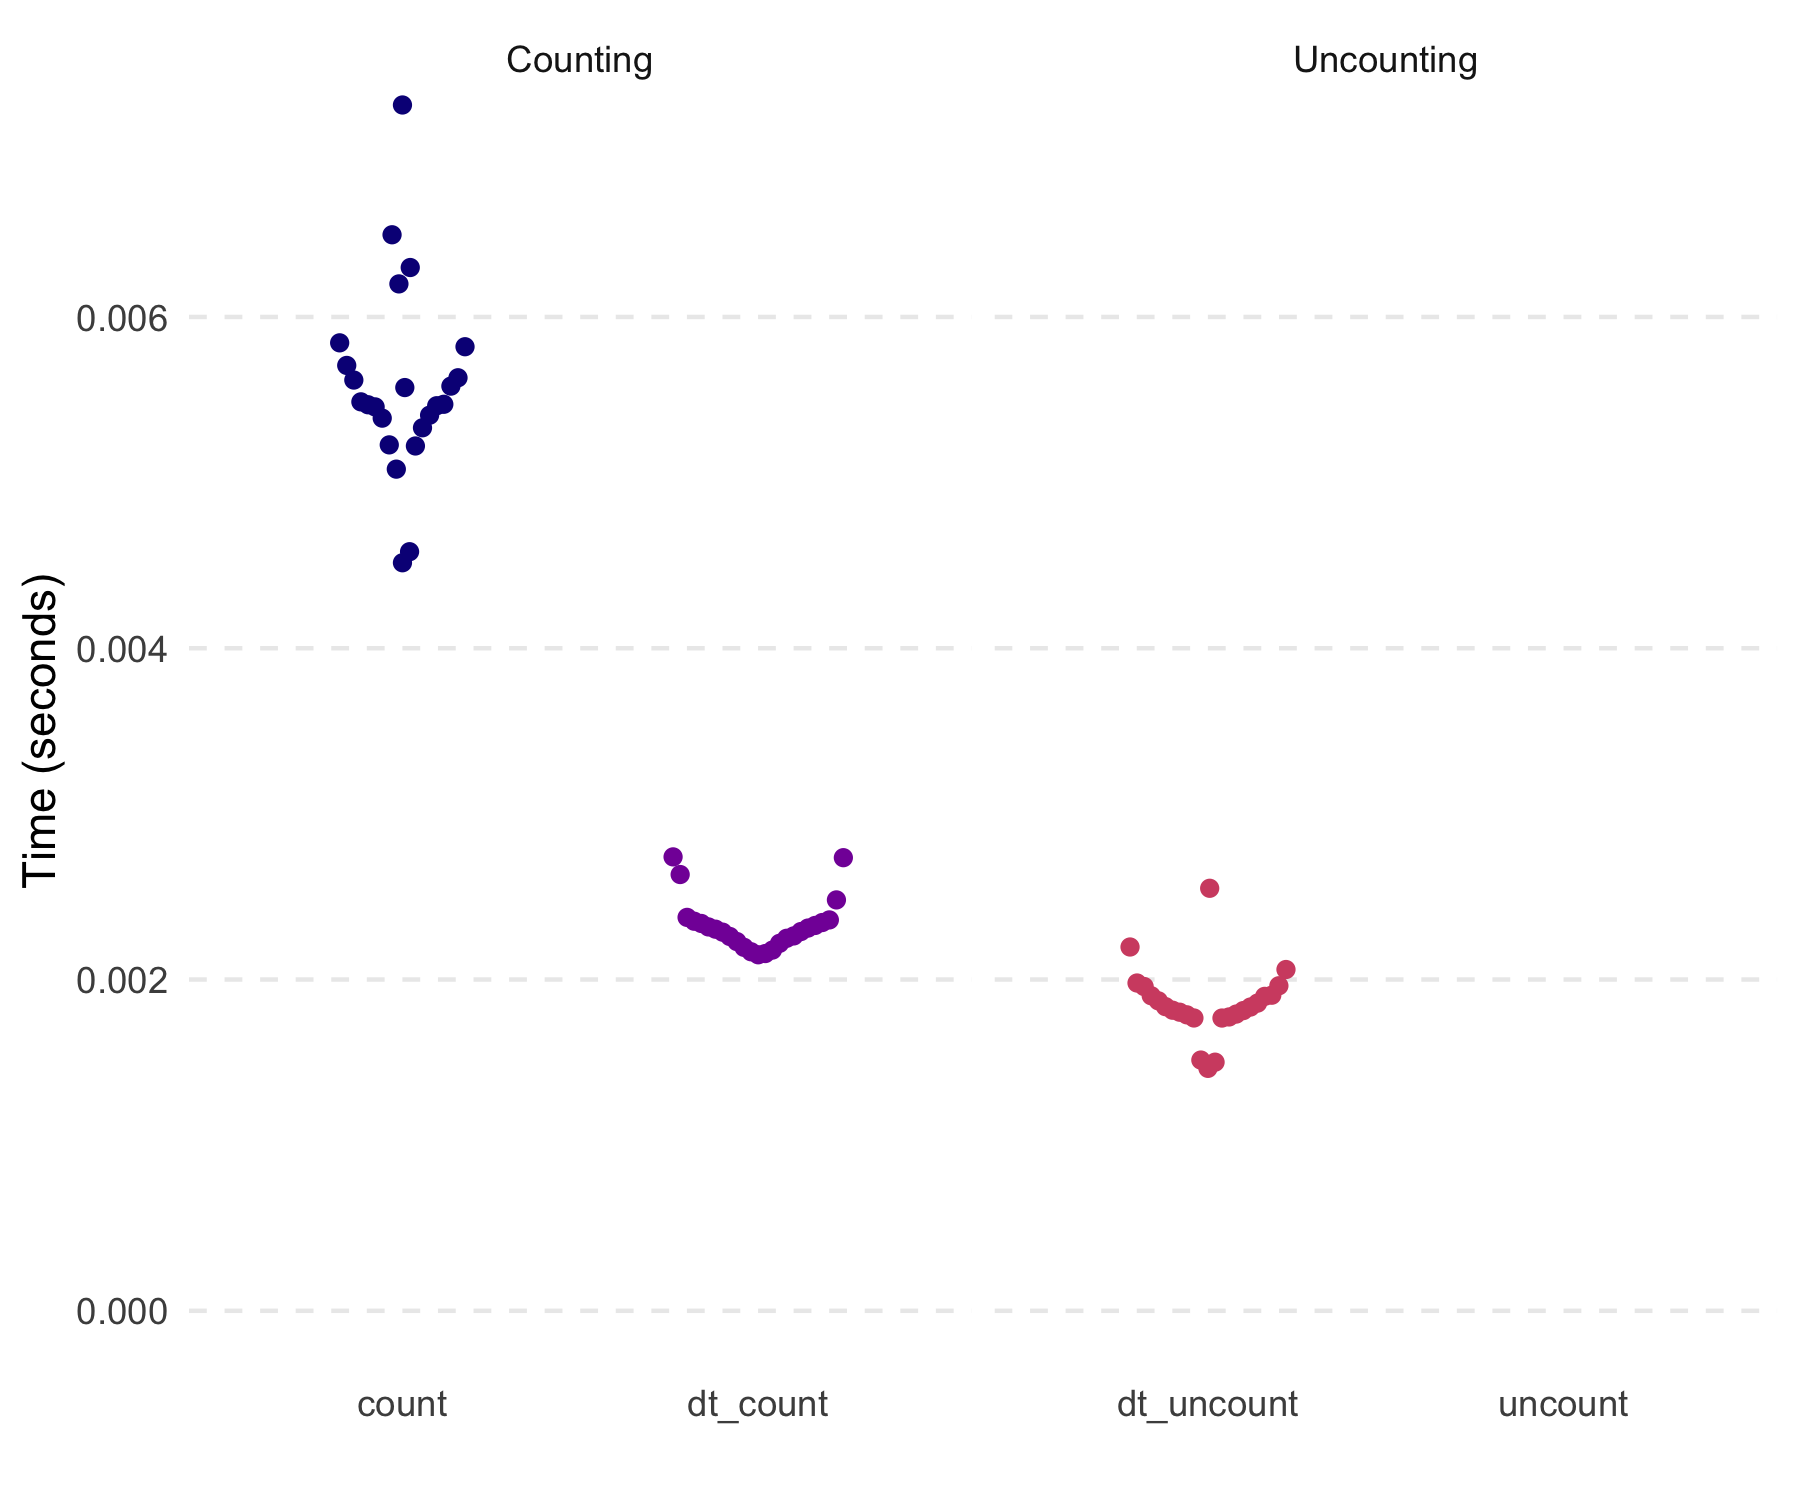
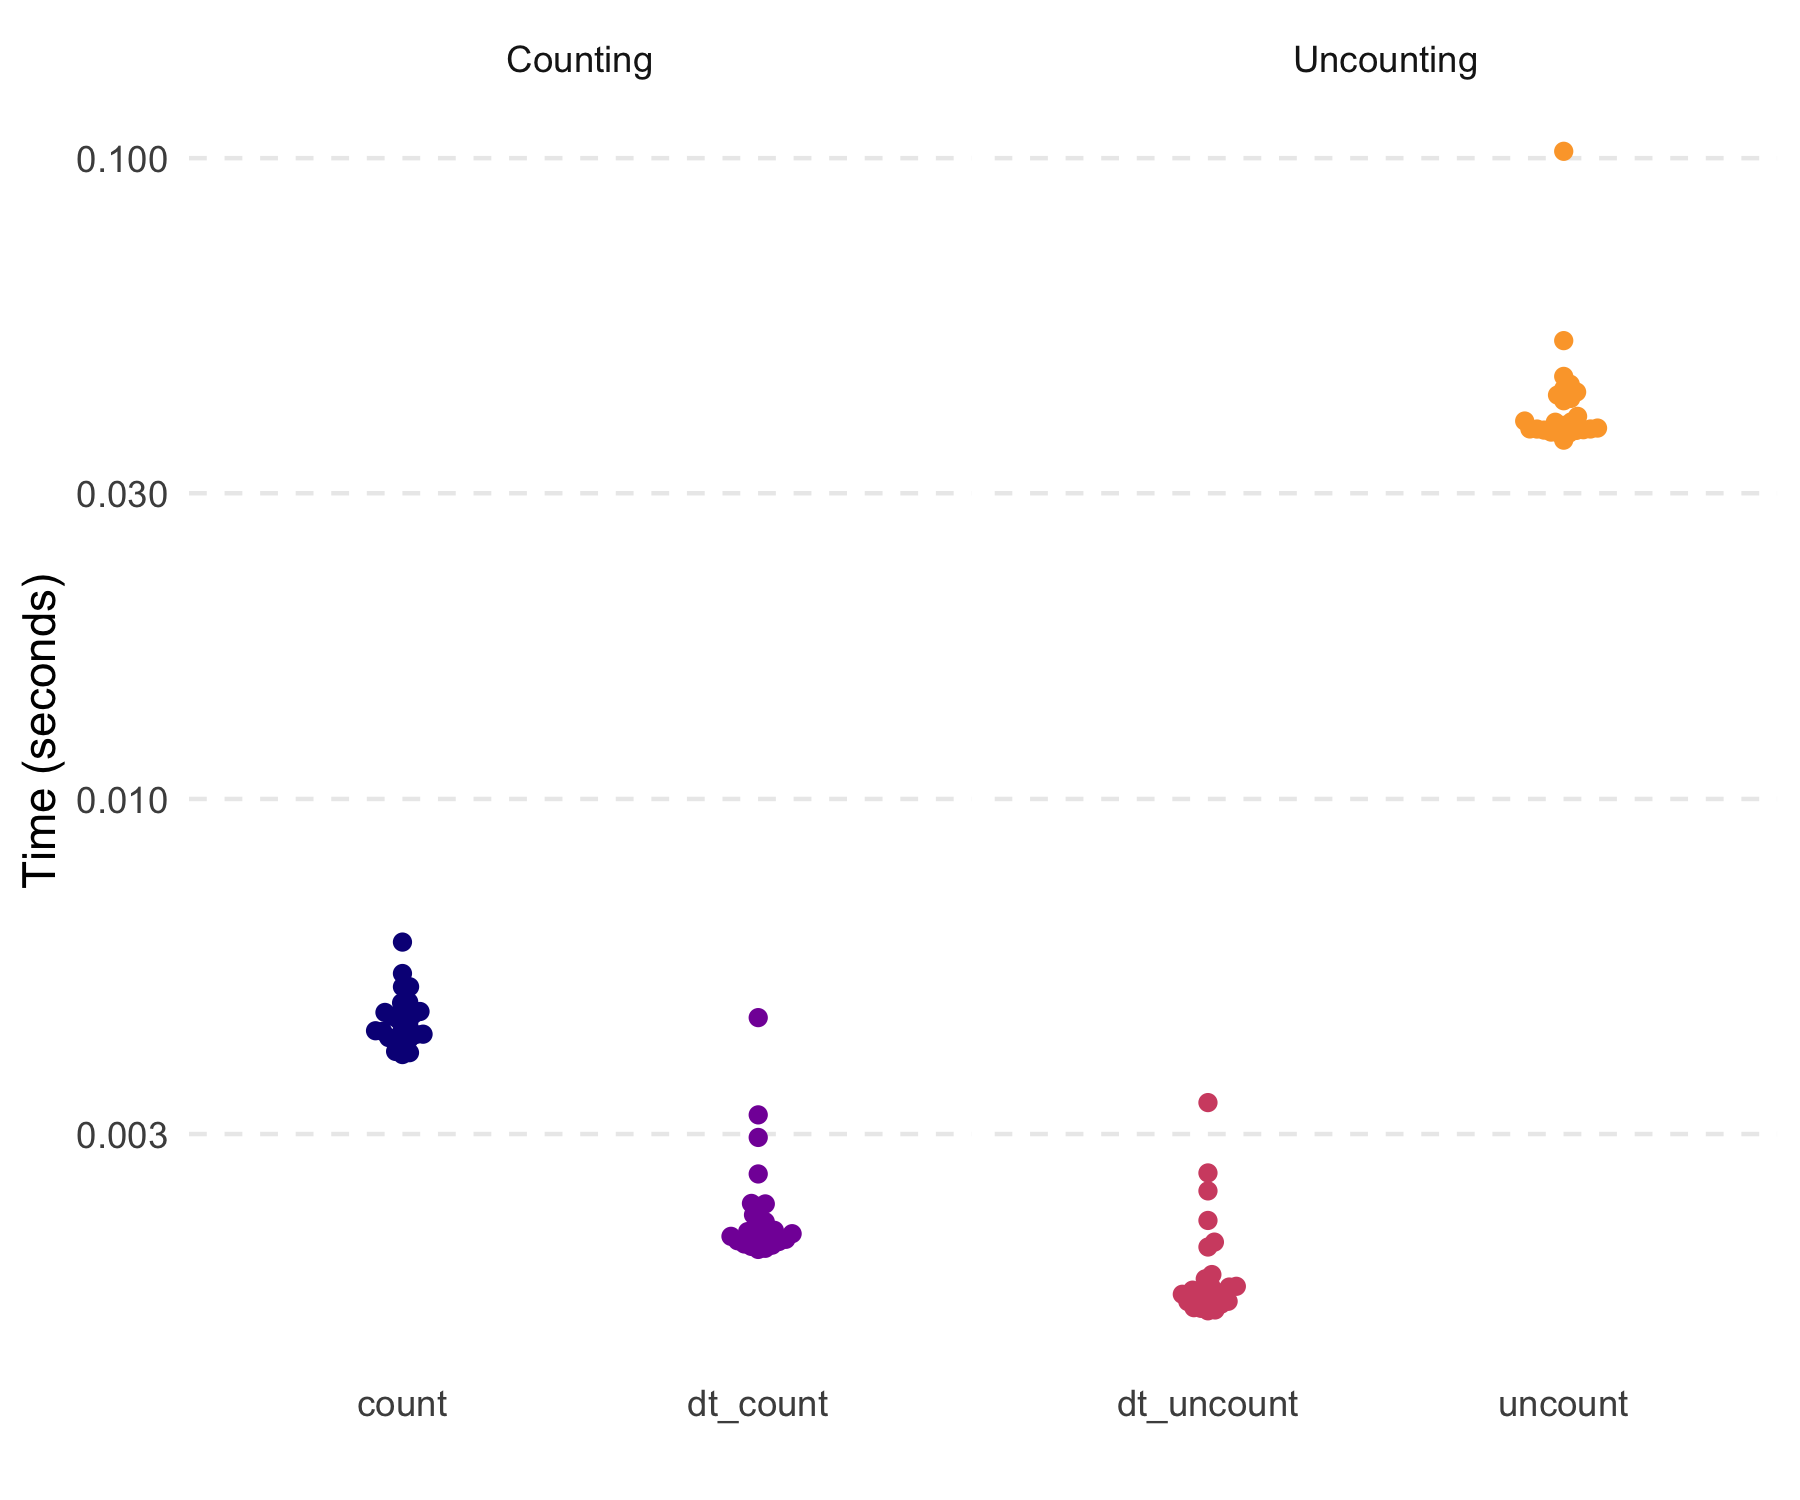
Unnest with data.table 1.13.0 (#32)
* updated dt_unnest

* updated dt_unnest

* updated readme

diff --git a/README.md b/README.md
@@ -1,7 +1,7 @@
 
 <!-- README.md is generated from README.Rmd. Please edit that file -->
 
-# `tidyfast v0.2.2` <img src="man/figures/tidyfast_hex.png" align="right" width="30%" height="30%" />
+# `tidyfast v0.2.3` <img src="man/figures/tidyfast_hex.png" align="right" width="30%" height="30%" />
 
 <!-- badges: start -->
 
@@ -216,13 +216,13 @@ highlighted below. Notably, the timings are without the `nested1` and
     #> # A tibble: 2 x 3
     #>   expression   median mem_alloc
     #>   <chr>      <bch:tm> <bch:byt>
-    #> 1 dt_nest      3.15ms    2.88MB
-    #> 2 group_nest   9.34ms     5.4MB
+    #> 1 dt_nest      3.85ms    2.88MB
+    #> 2 group_nest   8.21ms    5.39MB
     #> # A tibble: 2 x 3
     #>   expression   median mem_alloc
     #>   <chr>      <bch:tm> <bch:byt>
-    #> 1 dt_unnest    4.85ms    5.48MB
-    #> 2 unnest      17.95ms   15.31MB
+    #> 1 dt_unnest    4.77ms     5.1MB
+    #> 2 unnest       8.54ms    6.06MB
 
 ## Pivoting
 
@@ -288,17 +288,18 @@ and friends) and 2) the functions are new and likely prone to edge-case
 bugs.
 
 But let’s compare some basic speed and efficiency. Because of the
-`data.table` functions, these are extremely fast and efficient.
+`data.table` functions, these are extremely fast and
+efficient.
 
 <img src="man/figures/README-third_pivot-1.png" width="70%" /><img src="man/figures/README-third_pivot-2.png" width="70%" />
 
     #> # A tibble: 4 x 3
     #>   expression        median mem_alloc
     #>   <chr>           <bch:tm> <bch:byt>
-    #> 1 dt_pivot_longer    1.1ms  997.09KB
-    #> 2 pivot_longer      11.4ms    2.55MB
-    #> 3 dt_pivot_wider    10.9ms    1.86MB
-    #> 4 pivot_wider       13.3ms    1.95MB
+    #> 1 dt_pivot_longer   1.21ms  996.42KB
+    #> 2 pivot_longer       7.3ms    2.48MB
+    #> 3 dt_pivot_wider    8.87ms    1.86MB
+    #> 4 pivot_wider       8.08ms    2.09MB
 
 ### If Else
 
@@ -347,9 +348,9 @@ built on `data.table::fifelse()`.
     #> # A tibble: 3 x 3
     #>   expression     median mem_alloc
     #>   <chr>        <bch:tm> <bch:byt>
-    #> 1 case_when     133.7ms   148.8MB
-    #> 2 dt_case_when   35.8ms    34.3MB
-    #> 3 fifelse        34.1ms    34.3MB
+    #> 1 case_when     138.8ms   148.8MB
+    #> 2 dt_case_when   39.9ms    34.3MB
+    #> 3 fifelse        38.1ms    34.3MB
 
 ## Fill
 
@@ -457,8 +458,8 @@ marks3 <-
     #> # A tibble: 2 x 3
     #>   expression                                    median mem_alloc
     #>   <bch:expr>                                  <bch:tm> <bch:byt>
-    #> 1 tidyr::fill(dplyr::group_by(df3, id), x, y)   44.1ms    42.6MB
-    #> 2 tidyfast::dt_fill(dt3, x, y, id = list(id))   23.8ms    29.1MB
+    #> 1 tidyr::fill(dplyr::group_by(df3, id), x, y)   44.8ms    43.1MB
+    #> 2 tidyfast::dt_fill(dt3, x, y, id = list(id))   26.9ms    29.1MB
 
 ## Separate
 
@@ -500,9 +501,9 @@ than `tidyr::separate()`.
     #> # A tibble: 3 x 3
     #>   expression            median mem_alloc
     #>   <chr>               <bch:tm> <bch:byt>
-    #> 1 separate               363ms    11.6MB
-    #> 2 dt_separate            132ms    30.6MB
-    #> 3 dt_separate-mutable    114ms    26.7MB
+    #> 1 separate               5.91s    3.89GB
+    #> 2 dt_separate          108.1ms   22.92MB
+    #> 3 dt_separate-mutable  94.75ms   19.09MB
 
 ## Count and Uncount
 
